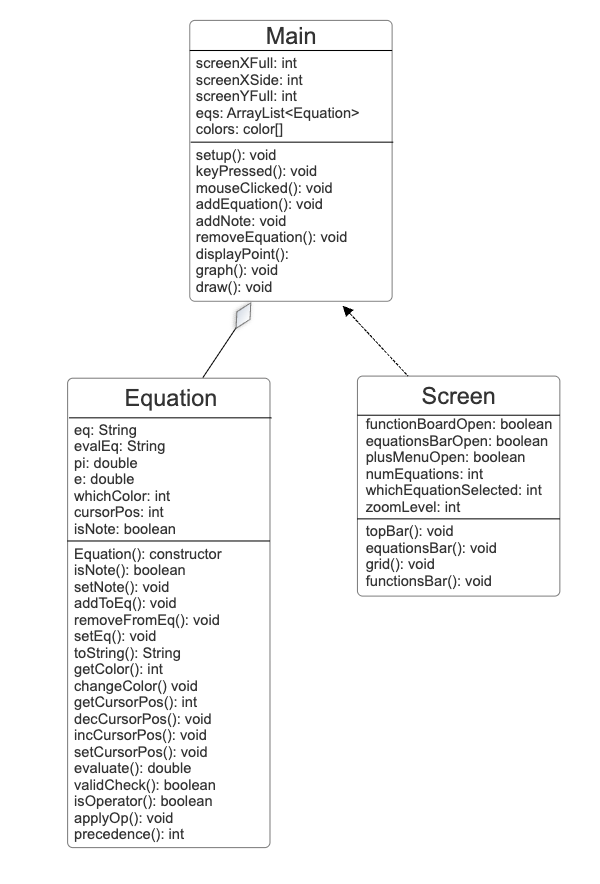
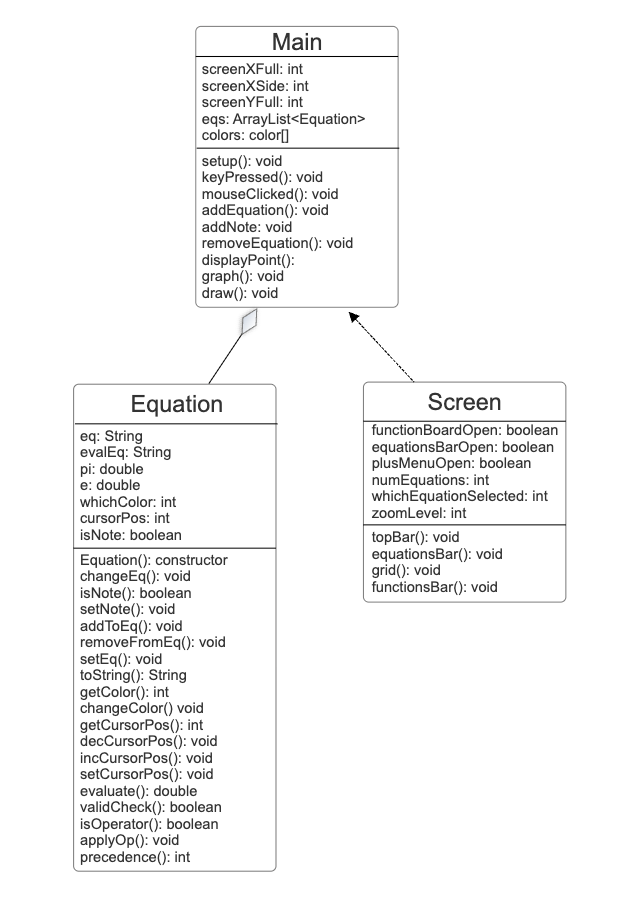
Added new UML

Changed region(s): [[0.09, 0.0305, 0.96, 0.9774]]

diff --git a/PROTOTYPE.md b/PROTOTYPE.md
@@ -7,7 +7,7 @@ This is a replica of the online graphing calculator Desmos. It will be able to t
 
 The user interface will replicate Desmos'. There will be a bar on the left where the user can input equations into the graphing calculator. There will be a bar on the bottom of the screen where symbols like the square root symbol, absolute value bars, and exponent can be accessed. The majority of the screen will be taken up by the graph itself, and there will be buttons in the top right to zoom in and out of the graph. 
 
-We hope to have a few other features as well. These include allowing the user to change the color of a graph, incorporating all the available functions in Desmos (such as sine, cosine, logarithms, etc.), allowing the user to manually change the scale and dimensions of the graph, and incorporating polar functions and the polar grid. We also hope to have the feature in Desmos where clicking on the graph can reveal the coordinates of the point that was clicked on. Another feature would be the slider that is available for variables that are not defined in the equations bar, and the reverse contrast mode.
+We **hope** to have a few other features as well. These include allowing the user to change the color of a graph, incorporating some of the available functions in Desmos (such as sine, cosine, logarithms, etc.), allowing the user to manually change the scale and dimensions of the graph, and incorporating polar functions and the polar grid. (We discovered that the base graphing calculator was difficult enough that polar functions would likely not be feasible within our timeframe). We also hope to have the feature in Desmos where clicking on the graph can reveal the coordinates of the point that was clicked on. Another feature would be the slider that is available for variables that are not defined in the equations bar, and the reverse contrast mode.
 
 Mostly, these will be using a mouseclicked() method and finding the coordinates in order to function (since zooming in/out, using the function buttons, etc. requires clicking). The keypressed() method along with the key variable created by it will be used to log the keys pressed so that the user can type in an equation. Colors will, of course, be used to change the colors of the graphs. Reverse contrast mode can be achieved with a kernel, as done in class. 
 
@@ -26,7 +26,9 @@ The Main class has an ArrayList of equations ~~and a corresponding ArrayList of 
 
 Most of the Screen class's methods were intended to be in the Main class (they are all intended for setting up the screen and drawing the UI), but the Main and Screen were separated for convenience and organization. The Screen class draws all the UI.
 
-As for the Equation itself, it will have a String as a field and, and addToEq and ~~deleteFromEq~~ removeFromEq to edit the String. ~~makeGraph~~ graph() will create a graph based on the current equation String. Screen will display each Equation's String on the left, in the appropriate slot. A separate graph() object is not necessary.
+As for the Equation itself, it will have a String as a field and, and addToEq and ~~deleteFromEq~~ removeFromEq to edit the String. A cursor will allow for navigation within the equation string. (**new**) ~~makeGraph~~ graph() will create a graph based on the current equation String. Screen will display each Equation's String on the left, in the appropriate slot. A separate graph() object is not necessary.
+
+We will use a two stack algorithm (one for vals, one for operations) in order to take in user input. We will construct values as strings in order to deal with decimals and the evaluate function will be non static and take in the value of x at which it is evaluated (if it does not have an x, it evaluates as a simple expression) (**new**)
 
 ~~The Graph object will contain the function (the Equation) and a set of points generated over the range of the graph displayed in an ArrayList. The Graph will have a method to display the graph, graph(), and a method to redo the points, redoPoints, when the equation is changed.~~
 

diff --git a/DEVLOG-Raymond.md b/DEVLOG-Raymond.md
@@ -45,3 +45,6 @@ This document must be updated daily every time you finish a work session.
 
 ### 2025-06-08 - Adding feature to click on the graph and display point
 ~1 hr - Implemented clicking on the graph to allow points on the graph to be displayed
+
+
+I believe this document accurately reflects the contributions of my teammate. ~Galen Jack
